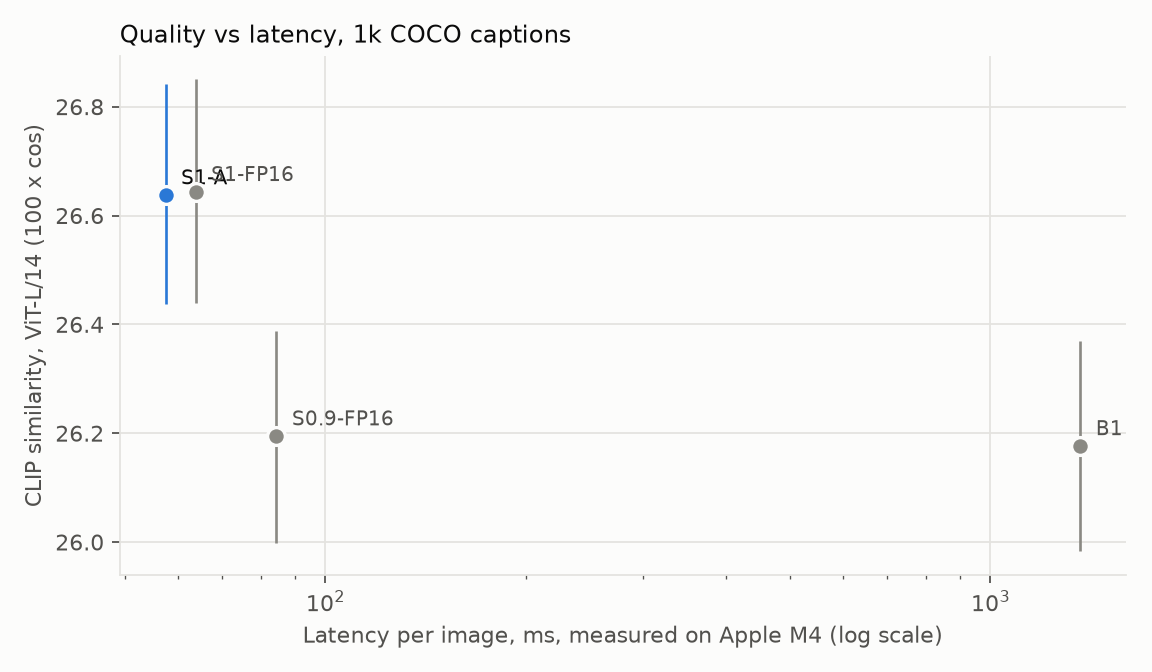
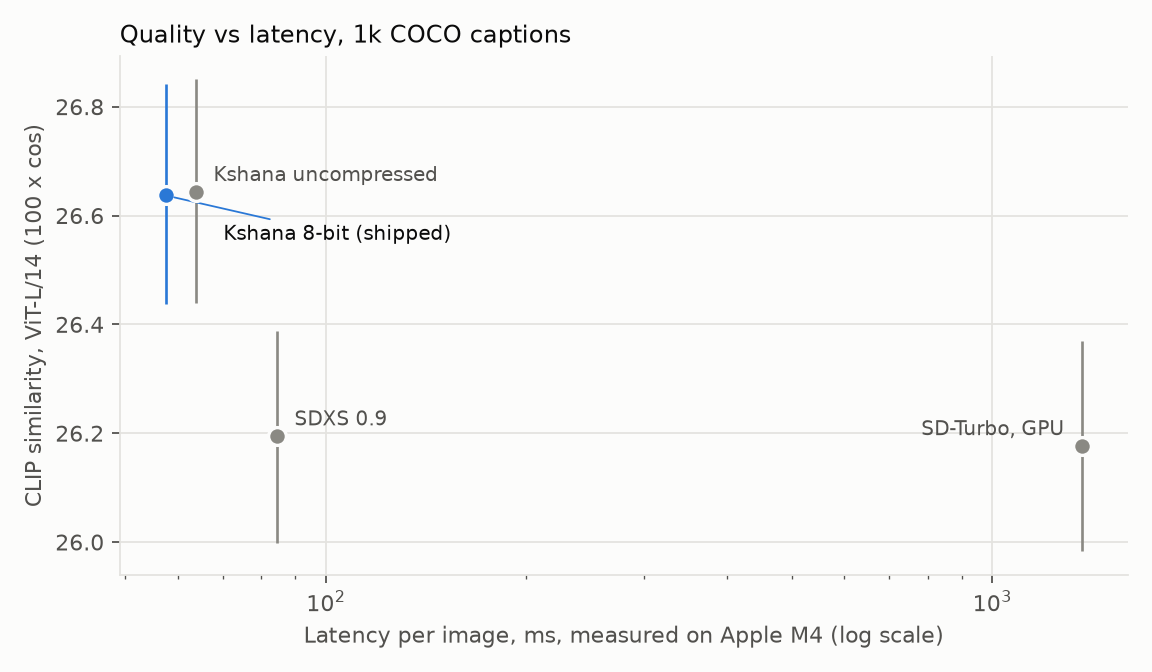
Label report charts and compression figures clearly

diff --git a/eval/charts.py b/eval/charts.py
@@ -50,6 +50,24 @@ def num(value: str) -> float | None:
         return None
 
 
+NAMES = {"S1-A": "Kshana 8-bit (shipped)", "S1-FP16": "Kshana uncompressed", "S0.9-FP16": "SDXS 0.9", "B1": "SD-Turbo, GPU", "B0": "SD 1.5, GPU"}
+
+
+def label_point(ax, p: dict, x_key: str) -> None:
+    """Direct labels. The two Kshana points sit almost on top of each other, so they get set positions."""
+    name = NAMES.get(p["config"], p["config"])
+    at = (p[x_key], p["clip"])
+    color = INK if p["config"] == SHIPPED else INK_2
+    if p["config"] == SHIPPED:
+        ax.annotate(name, at, textcoords="offset points", xytext=(26, -20), fontsize=9, color=color, arrowprops={"arrowstyle": "-", "color": BLUE, "lw": 0.8, "shrinkB": 4})
+    elif p["config"] == "S1-FP16":
+        ax.annotate(name, at, textcoords="offset points", xytext=(8, 5), fontsize=9, color=color)
+    elif p["config"] in ("B0", "B1"):
+        ax.annotate(name, at, textcoords="offset points", xytext=(-8, 5), ha="right", fontsize=9, color=color)
+    else:
+        ax.annotate(name, at, textcoords="offset points", xytext=(8, 5), fontsize=9, color=color)
+
+
 def scatter(points: list[dict], x_key: str, x_label: str, title: str, out: str, logx: bool = True) -> None:
     """Every config, one hue: the shipped config is blue, everything else neutral, all labelled."""
     if len(points) < 2:
@@ -59,7 +77,7 @@ def scatter(points: list[dict], x_key: str, x_label: str, title: str, out: str, 
         color = BLUE if p["config"] == SHIPPED else NEUTRAL
         ax.errorbar(p[x_key], p["clip"], yerr=[[p["clip"] - p["lo"]], [p["hi"] - p["clip"]]], fmt="none", ecolor=color, elinewidth=1.2, capsize=0)
         ax.scatter(p[x_key], p["clip"], s=64, c=color, edgecolors=SURFACE, linewidths=1.5, zorder=3)
-        ax.annotate(p["config"], (p[x_key], p["clip"]), textcoords="offset points", xytext=(7, 5), fontsize=9, color=INK if p["config"] == SHIPPED else INK_2)
+        label_point(ax, p, x_key)
     if logx:
         ax.set_xscale("log")
     ax.set_xlabel(x_label)

diff --git a/eval/make_report_figures.py b/eval/make_report_figures.py
@@ -1,0 +1,34 @@
+#!/usr/bin/env python
+"""Compact, readably labelled compression figures for the report, from the two original test sheets."""
+from __future__ import annotations
+
+from PIL import Image, ImageDraw, ImageFont
+
+TILE, GAP, HEAD = 256, 6, 64
+INK = (31, 56, 100)
+FONT = ImageFont.truetype("/System/Library/Fonts/Supplemental/Arial Bold.ttf", 21)
+
+
+def rows_of(sheet: Image.Image, row: int, columns: list[int]) -> list[Image.Image]:
+    top = 18 + 274 * row
+    return [sheet.crop((256 * c, top, 256 * (c + 1), top + TILE)) for c in columns]
+
+
+def build(source: str, versions: list[tuple[str, int]], out: str) -> None:
+    sheet = Image.open(source).convert("RGB")
+    columns = [0, 1]  # cup, portrait
+    width = len(versions) * TILE + (len(versions) - 1) * GAP
+    height = HEAD + len(columns) * TILE + (len(columns) - 1) * GAP
+    canvas = Image.new("RGB", (width, height), "white")
+    draw = ImageDraw.Draw(canvas)
+    for i, (label, row) in enumerate(versions):
+        x = i * (TILE + GAP)
+        for line, text in enumerate(label.split("\n")):
+            draw.text((x + TILE / 2, 6 + line * 26), text, font=FONT, fill=INK, anchor="ma")
+        for j, tile in enumerate(rows_of(sheet, row, columns)):
+            canvas.paste(tile, (x, HEAD + j * (TILE + GAP)))
+    canvas.save(out)
+
+
+build("docs/figures/silu_fix_sheet.png", [("PyTorch\nreference", 0), ("Stock FP16\nNeural Engine", 4), ("Fixed FP16\nNeural Engine", 1), ("Fixed 8-bit, shipped\nNeural Engine", 2), ("Fixed 6-bit\nNeural Engine", 3)], "docs/figures/neural_engine_fix.png")
+build("docs/figures/compression_sheet.png", [("PyTorch\nreference", 0), ("FP16\nGPU", 1), ("8-bit palette\nGPU", 2), ("8-bit linear\nGPU", 3), ("6-bit palette\nGPU", 4)], "docs/figures/compression_effect.png")
